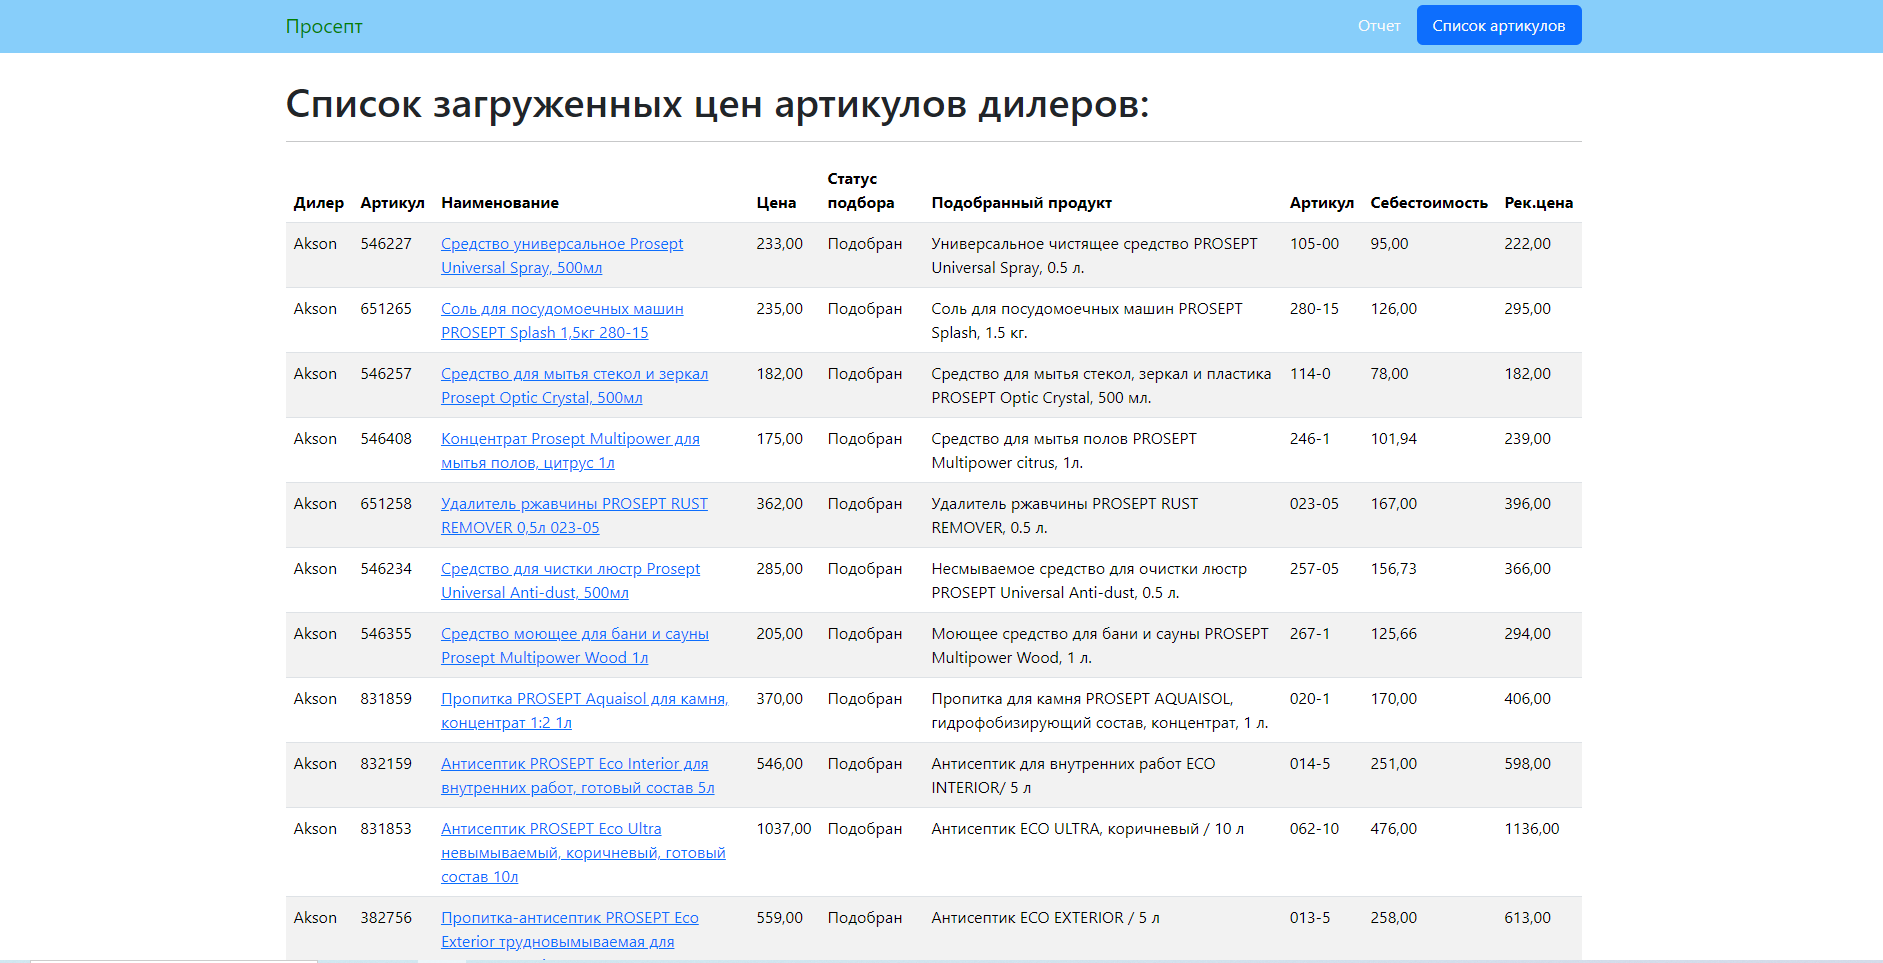
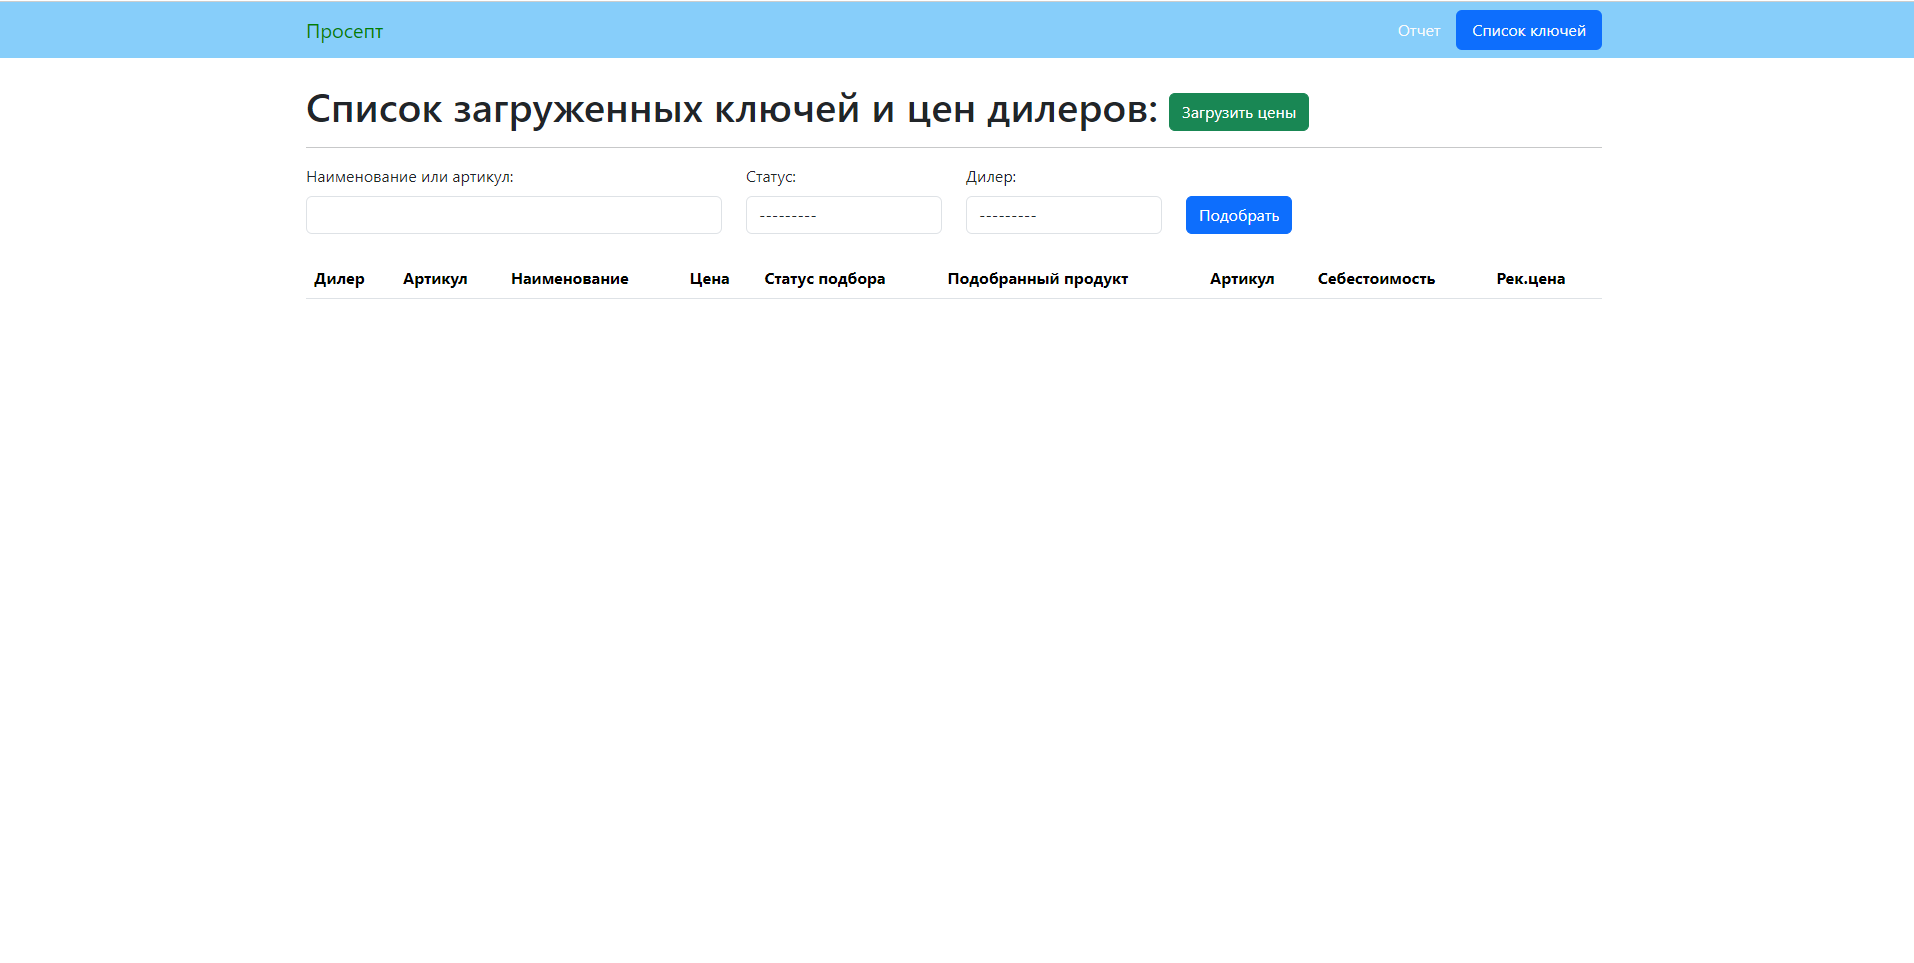
added import/delete prices

diff --git a/templates/dealers/index.html b/templates/dealers/index.html
@@ -3,7 +3,18 @@
 {% block content %}
 {% load user_filters %}
 
-<h1>Список загруженных цен артикулов дилеров:</h1>
+<h1>
+    Список загруженных ключей и цен дилеров:
+    {% if page_obj.paginator.count == 0 %}
+    <a href="{% url 'prices:import_prices' %}" class="btn btn-success">
+        Загрузить цены
+    </a>
+    {% else %}
+    <a href="{% url 'prices:delete_prices' %}" class="btn btn-danger">
+        Удалить цены и связи
+    </a>
+    {% endif %}
+</h1>
 <hr>
 
 <form method="get">
@@ -23,7 +34,7 @@
         <div class="col-2 align-self-end mb-2">
             <div class="justify-content-end">
                 <button type="submit" class="btn btn-primary">
-                    Найти
+                    Подобрать
                 </button>
             </div>
         </div>
@@ -52,7 +63,10 @@
             <td><a href="{% url 'dealers:details' key.id %}">{{ key.name }}</a></td>
             <td>{{ key.last_price }}</td>
             <td>
-                {% if key.product_id %}Подобран{% elif key.declined == 10 %}Не подходит{% else %}На проверку{% endif %}
+                {% if key.product_id %}Подтверждено
+                {% elif key.declined == 10 %}Не подходит
+                {% else %}На проверку
+                {% endif %}
             </td>
             <td>{% if key.product_id %}{{ key.product.name_1c }}{% else %}-{% endif %}</td>
             <td>{% if key.product_id %}{{ key.product.article }}{% else %}-{% endif %}</td>

diff --git a/templates/dealers/details.html b/templates/dealers/details.html
@@ -20,7 +20,7 @@
             <td>{{ object.key|truncatechars:20 }}</td>
             <td>{{ object.name }}</td>
             <td>
-                {% if object.product_id %}Подобран
+                {% if object.product_id %}Подтверждено
                 {% elif object.declined == 10 %}Не подходит
                 {% else %}На проверку
                 {% endif %}

diff --git a/templates/includes/header.html b/templates/includes/header.html
@@ -18,7 +18,7 @@
         <li class="nav-item">
           <a class="nav-link {% if view_name == 'dealers:index' %} active {% endif %} link-light"
             href="{% url 'dealers:index' %}">
-            Список артикулов
+            Список ключей
           </a>
         </li>
       </ul>

diff --git a/apps/prices/views.py b/apps/prices/views.py
@@ -1,0 +1,30 @@
+from django.http import (
+    HttpRequest,
+    HttpResponsePermanentRedirect,
+)
+from django.shortcuts import redirect
+from django.views import View
+
+from .crud import there_are_prices_in_db
+from .services import create_prices, delete_prices_and_relations
+
+
+class ImportPrices(View):
+    """Загрузка всех цен из стартового файла."""
+
+    def get(
+        self, request: HttpRequest, *args, **kwargs
+    ) -> HttpResponsePermanentRedirect:
+        if not there_are_prices_in_db():
+            create_prices()
+        return redirect("dealers:index")
+
+
+class DeleteAllPrices(View):
+    """Удаление всех загруженных цен и принятых решений по подбору."""
+
+    def get(
+        self, request: HttpRequest, *args, **kwargs
+    ) -> HttpResponsePermanentRedirect:
+        delete_prices_and_relations()
+        return redirect("dealers:index")

diff --git a/config/urls.py b/config/urls.py
@@ -9,6 +9,7 @@ from drf_spectacular.views import (
 urlpatterns = [
     path("admin/", admin.site.urls),
     path("backup/", include("apps.dealers.urls", namespace="dealers")),
+    path("backup/", include("apps.prices.urls", namespace="prices")),
     path("api/v1/", include("apps.api.v1.urls")),
     path("api/schema/", SpectacularAPIView.as_view(), name="schema"),
     path(

diff --git a/apps/dealers/filters.py b/apps/dealers/filters.py
@@ -15,7 +15,7 @@ def filter_keys(
     dealer = request.GET.get("dealer")
 
     if text:
-        qs = qs.filter(Q(name__icontains=text) | Q(article__icontains=text))
+        qs = qs.filter(Q(name__icontains=text) | Q(key__icontains=text))
     if dealer:
         qs = qs.filter(dealer=dealer)
     if status:

diff --git a/apps/prices/urls.py b/apps/prices/urls.py
@@ -1,0 +1,10 @@
+from django.urls import path
+
+from .views import DeleteAllPrices, ImportPrices
+
+app_name = "prices"
+
+urlpatterns = [
+    path("prices/import/", ImportPrices.as_view(), name="import_prices"),
+    path("prices/delete/", DeleteAllPrices.as_view(), name="delete_prices"),
+]
